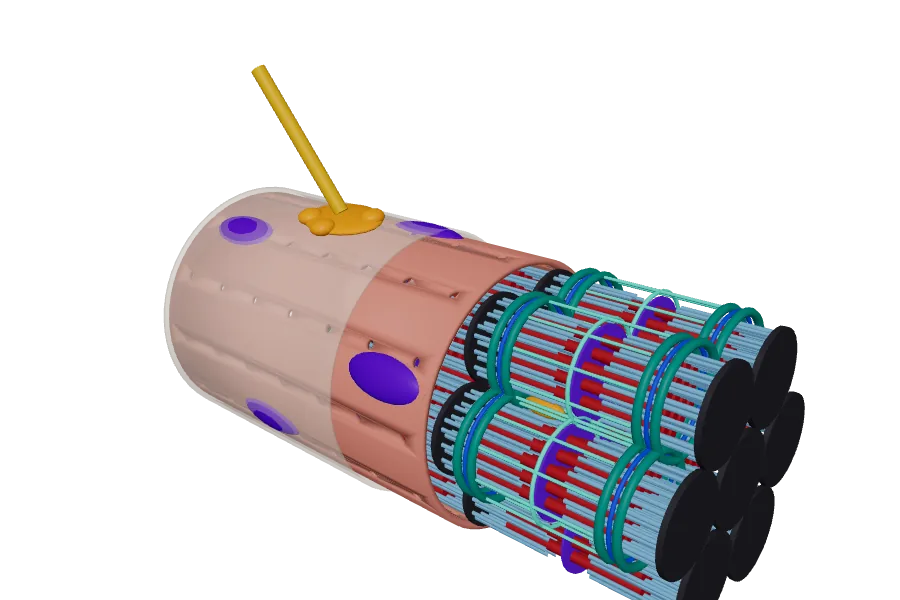
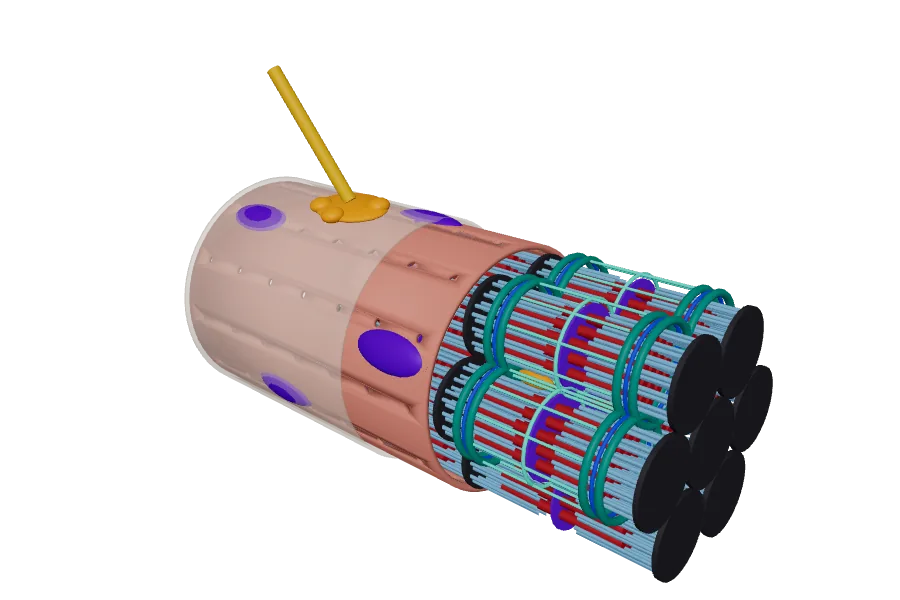
Diameter: re-render stage 3 (muscle fiber) a little smaller and higher so the whole fiber fits the frame (render.html gets a 'shift' option)

Changed region(s): [[0.1556, 0.09, 0.9022, 1.0], [0.2489, 0.54, 0.3111, 0.57], [0.3111, 0.57, 0.3422, 0.6]]

diff --git a/scripts/diameter-art/render.html b/scripts/diameter-art/render.html
@@ -76,6 +76,8 @@ window.renderLevel = async (cfg) => {
   cam.position.copy(dir.multiplyScalar(dist));
   cam.lookAt(0, 0, 0);
   if (cfg.pan) { cam.position.add(new THREE.Vector3(...cfg.pan)); }
+  // shift: move the picture on screen, in px of the render (positive y = the model moves up)
+  if (cfg.shift) cam.setViewOffset(W, H, -(cfg.shift[0] ?? 0), cfg.shift[1] ?? 0, W, H);
 
   const shot = () => { renderer.render(scene, cam); return renderer.domElement.toDataURL('image/png'); };
   const result = { full: shot() };
